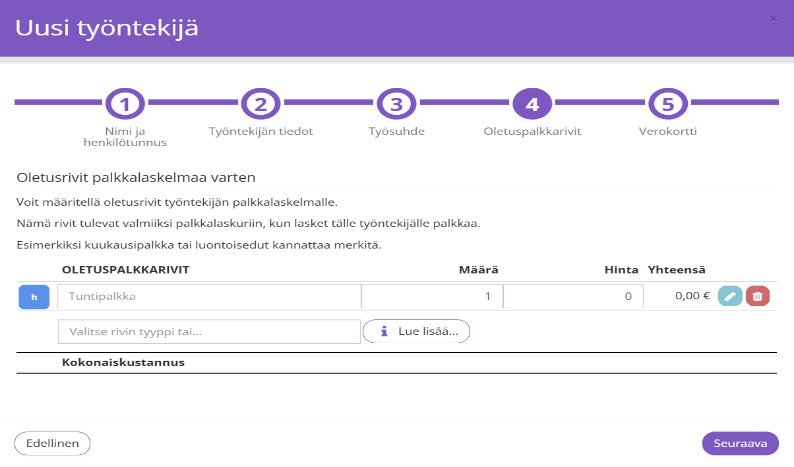
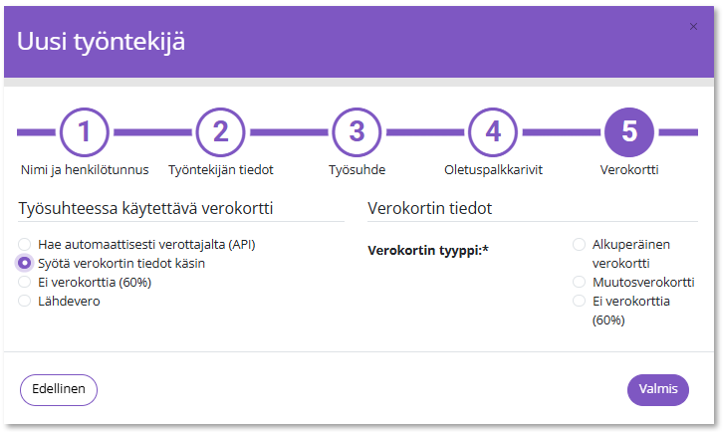
Palkanlaskennan ohjeiden päivitys

diff --git a/content/fi/docs/lisaosat/palkat/kayttoonotto.md b/content/fi/docs/lisaosat/palkat/kayttoonotto.md
@@ -6,19 +6,64 @@ description: >
   Palkanlaskennan käyttöönotto
 ---
 
-Palkanlaskennan lisäosan aktivoinnin voi tehdä tilitoimiston pääkäyttäjä tai tilinomistaja.
+Näin otat käyttöön ja aloitat palkanlaskennan Kitsas Prossa
 
-Palkanlaskennan lisäosan aktivointi tapahtuu **+Ota käytöön**-painikkeen kautta.
+## Kitsas Pro Palkkojen aktivointi
+
+Kun haluat aktivoida tilitoimistollesi käyttöön palkanlaskennan työkalut, olethan yhteydessä helpdeskiimme (kitsas.helpdesk@taopa.fi) ja kerro haluavasi päivittää Kitsas Pro -tilaukseesi Kitsas Pro Palkat.
+
+## Aktivoi asiakaskohtainen lisäosa
+
+Palkanlaskennan asiakaskohtaisen lisäosan voi aktivoida tilitoimiston pääkäyttäjä. 
+
+Lisäosan aktivointi tapahtuu kohdasta **Lisäosat → Kitsas Pro Palkat → Ota käyttöön**
 
 ![](/img/fi/lisaosa/palkat/aloitus1.png)
 
-Lisäosan aktivoinnin jälkeen pääset laskemaan palkkoja kohdasta **Siirry laskemaan palkkoja**.
+**Huom!**
 
-Kohdasta **Palkkojen noutaminen kirjanpitoon**, voit noutaa manuaalisesti palkkojen kirjanpidon tositteet, tai laittaa automaattisen noudon päälle jolloin edellisen kuukauden tositteet muodostuvat automaattisesti kuukauden 5.päivä.
+Lisäosan poiskytkeminen ei päätä palkanlaskentapalvelun käyttöä. Asiakaskohtaisen palkkatoiminnon päättämisestä tulee olla yhteydessä helppariin (kitsas.helpdesk@taopa.fi) 
+
+## Tilitoimistovaltakirja
+
+Kun siirryt palkanlaskennan palvelun käyttöönottoon ensimmäistä kertaa, tulee palvelun käyttäjän allekirjoittaa Tilitoimistovaltakirja:
+
+* Täydennä tiedot (Huom. Valtakirjan allekirjoittajalla tulee olla tilitoimiston nimenkirjoitusoikeus) 
+* Hyväksy käyttöehdot ja henkilötietojen käsittelyehdot (kertaluonteinen) 
+* Paina **Hyväksy** ja suorita vahva tunnistautuminen ja **allekirjoita tilitoimistovaltakirja**
+
+## Tilitoimistovarmenteen lisäys
+ 
+Varmenne haetaan Verohallinnon [varmennepalvelusta](https://varmennepalvelu.vero.fi/tuotanto/kirjaudu?lang=fi). Varmenteen hakemiseen tarvitaan Tilitoimiston **nimenkirjoitusoikeus** tai **Suomi.fi-valtuutus**.
+* Tunnistaudu varmennepalveluun ja valitse yritys
+* Valitse **Tilaa uusi varmenne**
+* Valitse varmenteeksi Tiedon tuottaja (Web Service)
+* Anna varmenteelle nimi (esim. Kitsas Palkat) ja anna yhteystiedot (sähköposti ja puhelinnumero, joihin varmenteen tiedot lähetetään) 
+* Lähetä tilaus
+
+Saat verottajalta turvasähköpostin, josta löytyvät **Siirtotunnus** ja **Kertakäyttösalasana**.
+ 
+## Varmenteen asetus Kitsaaseen
+
+Pääset asettamaan siirtotunnuksen ja kertakäyttösalasanan kitsaaseen asiakaskohtaisen lisäosan alta, kohdasta **Tilitoimistovarmenne** ja täytä varmenteen tiedot varmenteen hallintanäkymässä.
 
 ![](/img/fi/lisaosa/palkat/aloitus2.png)
 
-Jos tilitoimistovarmenne puuttuu, tulee asiakkaan valtuuttaa Palkkaus.fi tulorekisteri ilmoittamiseen. Valtakirjaan vievän linkin saat kopioitua suoraan etusivulta **Tilitoimistovarmenne puuttuu**.
+Tilitoimistovarmenteen voi asettaa käyttäjä, jolla on toimintokohtaiset oikeudet **Lisäosien asetukset** ja **Sertifikaattien hallinta**. Varmenteen hallintaan riittävät siis oikeudet, kun käyttäjälle on asetettu kirjanpito- tai tilitoimistotasolle roolit "kirjanpitäjä" ja "pääkäyttäjä".
+
+Tulorekisteri-ilmoittaminen tilitoimistovarmennetta pitkin edellyttää, että asiakkaasi on valtuuttanut tilitoimistosi suomi.fi-valtuuksin tulorekisteriasiointiin.
+
+## Aloita palkkojen laskeminen
+
+Pääset laskemaan palkkoja kohdasta **Siirry laskemaan palkkoja**.
+
+Palkkatoimintoihin pääsy edellyttää, että käyttäjälle on asetettu kirjanpito- tai tilitoimistokohtainen rooli **Palkanlaskija**.
 
 ![](/img/fi/lisaosa/palkat/aloitus3.png)
+
+## Kirjanpidon tositteiden muodostaminen
+
+Palkanlaskennan kirjanpidon tositteet voi:
+* Noutaa manuaalisesti kohdasta **Palkkojen noutaminen kirjanpitoon**
+* Tai asettaa automaattisesti muodostumaan kuukauden 5. päivänä
 

diff --git a/content/fi/docs/lisaosat/palkat/laskenta.md b/content/fi/docs/lisaosat/palkat/laskenta.md
@@ -6,51 +6,85 @@ description: >
   Palkanlaskenta
 ---
 
-Palkkalaskelman voi muodostaa työpöydän, Palkanmaksu Viimeisimmät tai Palkkalistan kautta.
-Alla olevassa esimerkissä muodostetaan palkkalaskelma Palkanmaksu Viimeisimmät valinnan kautta:
+Palkkalaskelman voi muodostaa seuraavien näkymien kautta:
 
-Mene kohtaan **Palkanmaksu Viimeisimmät** ja kohtaan **Uusi palkkalaskelma +**.
+- **Työpöytä**
+- **Palkanmaksu → Viimeisimmät**
+- **Palkkalista**
+
+Tässä ohjeessa käytetään esimerkkinä näkymää **Palkanmaksu → Viimeisimmät**.
+
+## Uusi Palkkalaskelma
+
+Siirry kohtaan **Palkanmaksu → Viimeisimmät** ja valitse **Uusi palkkalaskelma**.
+
+Avautuu neljävälilehtinen näkymä:
 
 ![](/img/fi/lisaosa/palkat/laskenta1.png)
 
-Avautuu neljä välilehteä,
+## Täytä laskelman tiedot
+
+### Työntekijä
+
+Valitse työntekijä/työntekijät tai lisää uusi työntekijä.
 
 ![](/img/fi/lisaosa/palkat/laskenta2.png)
 
-1.Työntekijä -valitaan työntekijä/työntekijät ja lisätään mahdolliset lisätiedot välilehdelle
+### Palkkapäivä ja palkkakausi
+
+Valitse palkkapäivä ja palkkakausi. Jos palkkapäivä tulee takautuvaksi, toimi näin:
+
+1. Valitse ensin palkkapäivä tulevaisuudesta
+2. Päivitä laskelma
+3. Avaa välilehti uudelleen ja valitse **Takautuva palkka**
+4. Tämän jälkeen voit valita myös menneitä päivämääriä
 
 ![](/img/fi/lisaosa/palkat/laskenta3.png)
 
+### Palkka
 
-2. Valitaan palkkapäivä ja palkkakausi. Jos palkkapäivä tulee merkata takautuvasti, valitse ensin päivä tulevaisuudesta ja päivitä laskelma. Tämän jälkeen pääset kohdasta **Palkkalaskelma** vaihtamaan valinnaksi **Takautuva palkka** jolloin myös palkkapäivän valinta kalenterihistoriasta tulee mahdolliseksi.
+Lisää palkan tai palkkion erät. Työntekijän perustietoihin tallennetut oletuspalkkarivit tulevat automaattisesti näkyviin.
 
 ![](/img/fi/lisaosa/palkat/laskenta4.png)
 
-3. Palkka kohtaan lisätään palkat/palkkiot ja lisätään palkka/palkkiot. Työntekijän perustietoihin tallennetut oletuspalkkarivit nousevat tähän automaattisesti.
+### Vähennykset ja edut
+
+Lisää mahdolliset:
+
+- Kulukorvaukset
+- Verolliset luontoisedut
+- Vähennykset
 
 ![](/img/fi/lisaosa/palkat/laskenta5.png)
 
+### Tarkista laskelmat ja maksa
 
-4. Vähennykset, kulut ja verolliset luontoisedut lisätään tälle välilehdelle
+Kun kaikki palkkatiedot on syötetty, voit tarkistaa raportit:
+
+- **Työnantajan laskelma**
+- **Yhdistyksen laskelma**
+- **Työntekijän laskelma**
+
+Paina lopuksi **Maksa**.
 
 ![](/img/fi/lisaosa/palkat/laskenta6.png)
 
+### Luo laskut ja maksa
 
-Kun palkkatiedot on syötetty, voit katsoa raportteja kohdasta **Työnantajan laskelma**, **Yhdistyksen laskelma** ja **Työntekijän laskelma**.
-Lopuksi paina kohdasta **Maksa**.
+Valitse **Luo laskut**, jolloin ohjelma muodostaa palkkojen maksamiseen liittyvät laskut.
 
 ![](/img/fi/lisaosa/palkat/laskenta7.png)
 
-Luo laskut-valinta muodostaa laskut
+Ohjelma kysyy, laitetaanko palkat maksuun heti. Jos valitset **Maksa laskut nyt**, ohjelma siirtyy kohtaan **Maksua odottavat laskut**.
+
+Täällä voit:
+
+- Merkitä palkat ja laskut maksetuksi
+- Tulostaa maksutiedot valitsemalla **Näytä koko lasku**
 
 ![](/img/fi/lisaosa/palkat/laskenta8.png)
 
-Ohjelma kysyy, laitetaanko palkat maksuun heti. 
-Maksa laskut nyt valinnalla ohjelma siirtyy kohtaaan **Maksua odottavat laskut**.
-Täällä voit merkata palkat ja laskut maksetuksi, sekä tulostaa maksutiedot **Näytä koko lasku**-kohdasta.
-Palkan merkkaaminen maksetuksi muodostaa tulorekisteri-ilmoituksen automaattisesti.
+Kun palkka merkitään maksetuksi, **tulorekisteri-ilmoitus muodostuu automaattisesti**.
 
 ![](/img/fi/lisaosa/palkat/laskenta9.png)
-
-![](/img/fi/lisaosa/palkat/laskenta10.png)
 

diff --git a/content/fi/docs/lisaosat/palkat/_index.md b/content/fi/docs/lisaosat/palkat/_index.md
@@ -3,10 +3,20 @@ title: "Kitsas Palkat"
 linkTitle: "Palkat"
 weight: 80
 description: >
-  Palkkojen laskeminen tilitoimistoille
+    Kitsas Pro Palkat
 ---
-**Lisäosa on tällä hetkellä rajoitetussa testikäytössä. Lisäosa tulee saataville ainoastaan Kitsas Pro -tilitoimistoille.**
 
-Kitsas-palkat-lisäosalla voit laskea asiakkaasi yrittäjä- ja työntekijäpalkat ja palkanlaskennasta muodostuva kirjanpitoaineisto siirtyy kirjanpitoon yhdellä klikkauksella. Tulorekisteri-ilmoituksesta ei veloiteta erikseen eli maksat vain asiakaskohtaisen palkkalisäosahinnan sekä mahdollisen transaktiokulun verkkopalkoista.
+Kitsas Pro Palkat -lisäosalla voit laskea asiakkaasi **yrittäjä- ja työntekijäpalkat** helposti suoraan Kitsas Prossa. Palkanlaskennasta muodostuva kirjanpitoaineisto siirtyy kirjanpitoon yhdellä klikkauksella (_tai automaattisesti_) ja tulorekisteri-ilmoituksissa hyödynnetään tilitoimiston omaa varmennetta. 
+
+Tulorekisteri-ilmoituksesta ei veloiteta erikseen.
+
+Jos haluat aktivoida nykyiseen Kitsas Pro tilaukseesi Kitsas Pro Palkat, olethan yhteydessä helpdeskiimme (kitsas.helpdesk@taopa.fi)
+
+**Hinnoittelu:**
+- 20 € / kk, sisältää 5 asiakasyrityksen palkanlaskennan
+- Lisäasiakkaat: 4 € / kpl / kk
+- Verkkopalkkalaskelmat: 1 € / kpl
+
+_Lisäosa on saatavilla vain Kitsas Pro tilauksiin._
 
 

diff --git a/content/fi/docs/lisaosat/palkat/uusityontekija.md b/content/fi/docs/lisaosat/palkat/uusityontekija.md
@@ -6,19 +6,40 @@ description: >
   Työntekijän perustaminen
 ---
 
-Palkansaajantiedot lisätään kohdasta **Työntekijät Kaikki työntekijät**, **Uusi työntekijä+** painikkeesta.
+Uusi työntekijä lisätään valitsemalla:
+
+**Työntekijät → Kaikki työntekijät → Uusi työntekijä**
 
 ![](/img/fi/lisaosa/palkat/ut1.png)
 
-![](/img/fi/lisaosa/palkat/ut2.png)
+### Henkilötiedot
 
-![](/img/fi/lisaosa/palkat/ut3.png)
+Täytä työntekijän perustiedot:
+
+- Nimi
+- Henkilötunnus
+- Yhteystiedot
+
+![](/img/fi/lisaosa/palkat/ut2.png)
 
 Palkanmaksutavaksi voidaan valita myös **maksetaan Palkkaus-palvelun ulkopuolella**, jolloin tilinumerotietoa ei tarvitse lisätä. Tilinumerotietoa ei tällöin saa maksuraportille.
 
+### Työsuhteen tiedot
+
+Määrittele:
+
+- Työsuhteen tyyppi (esim. toistaiseksi voimassa oleva, määräaikainen)
+- Aloituspäivä
+- Työaika (esim. kokoaikainen, osa-aikainen)
+
+![](/img/fi/lisaosa/palkat/ut3.png)
+
+Seuraavassa kohdassa pääset määrittämäät tarvittavat oletuspalkkarivit.
 
 ![](/img/fi/lisaosa/palkat/ut4.png)
 
-![](/img/fi/lisaosa/palkat/ut5.png)
+### Verokortti
 
-![](/img/fi/lisaosa/palkat/ut6.png)
+Lisää työntekijän verokorttitiedot.
+
+![](/img/fi/lisaosa/palkat/ut5.png)

diff --git a/content/fi/docs/lisaosat/palkat/asetukset.md b/content/fi/docs/lisaosat/palkat/asetukset.md
@@ -6,15 +6,23 @@ description: >
   Palkanlaskennan asetukset
 ---
 
-Kohdasta **Asetukset Palkanmaksuasetukset** voit valita tavan tulorekisten kuukausittaiselle ilmoittamiselle, 
+Palkanlaskennan asetukset löytyvät Kitsas Pro Palkkojen violetin yläpalkin valikosta **Asetukset → Palkanmaksuasetukset**.
+
+### Tulorekisteri-ilmoitukset
+
+Valitse, miten usein tulorekisteri-ilmoitukset lähetetään. Suositeltava valinta on kuukausittain.
 
 ![](/img/fi/lisaosa/palkat/asetus1.png)
 
-sekä palkkalaskelman toimitustavan
+### Palkkalaskelman toimitustapa
+
+Valitse, miten palkkalaskelmat toimitetaan työntekijöille. Vaihtoehtoina ovat sähköpostitoimitus tai verkkopalkka (verkkopalkkalaskelman veloitus 1 € / kpl).
 
 ![](/img/fi/lisaosa/palkat/asetus2.png)
 
-Vakuutustiedot pääset lisäämään kohdasta **Asetukset Vakuutukset**.
+### Vakuutustiedot
+
+Vakuutustiedot lisätään kohdassa **Asetukset → Vakuutukset**. 
 
 ![](/img/fi/lisaosa/palkat/asetus3.png)
 
